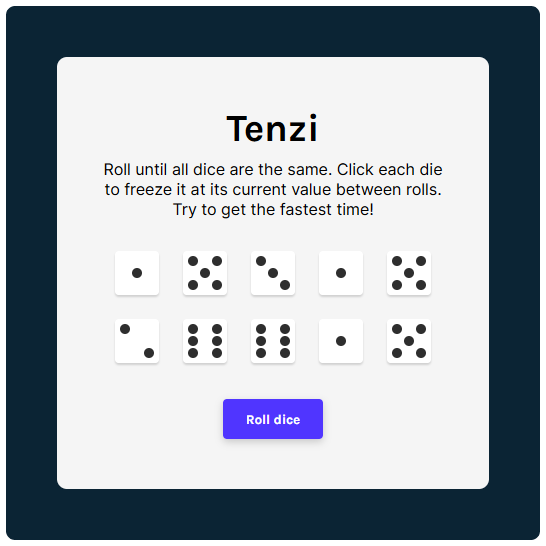
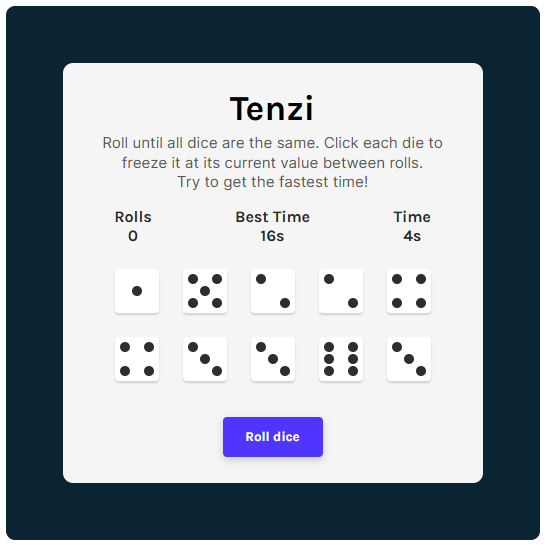
Add best time tracker with localStorage, update styling and preview

diff --git a/src/App.js b/src/App.js
@@ -8,6 +8,9 @@ export default function App() {
 	const [tenzies, setTenzies] = React.useState(false);
 	const [rollCount, setRollCount] = React.useState(0);
 	const [time, setTime] = React.useState(0);
+	const [bestTime, setBestTime] = React.useState(
+		JSON.parse(localStorage.getItem("bestTime")) || []
+	);
 
 	React.useEffect(() => {
 		const allFrozen = dice.every((die) => die.isFrozen);
@@ -32,6 +35,19 @@ export default function App() {
 		}
 	}, [tenzies]);
 
+	React.useEffect(() => {
+		const currentBestTime = localStorage.getItem("bestTime");
+		if (tenzies) {
+			if (!currentBestTime) {
+				localStorage.setItem("bestTime", JSON.stringify(time));
+			} else if (time < currentBestTime) {
+				setBestTime(
+					localStorage.setItem("bestTime", JSON.stringify(time))
+				);
+			}
+		}
+	}, [tenzies, time]);
+
 	function rollNewDice() {
 		if (!tenzies) {
 			setDice((prevDice) =>
@@ -45,6 +61,7 @@ export default function App() {
 			setRollCount(0);
 			setDice(allNewDice());
 			setTime(0);
+			setBestTime(localStorage.getItem("bestTime"));
 		}
 	}
 
@@ -78,8 +95,18 @@ export default function App() {
 				fastest time!
 			</p>
 			<div className="wrapper__stats flex-row">
-				<h3 className="counter--roll">Times Rolled: {rollCount}</h3>
-				<h3 className="timer">Elapsed Time: {time}s</h3>
+				<h3 className="counter--roll">
+					Rolls
+					<p>{rollCount}</p>
+				</h3>
+				<h3 className="bestTimer">
+					Best Time
+					<p>{bestTime}s</p>
+				</h3>
+				<h3 className="timer">
+					Time
+					<p>{time}s</p>
+				</h3>
 			</div>
 			<div className="wrapper__dice">{diceElements}</div>
 			<button className="button__dice" onClick={rollNewDice}>

diff --git a/src/style.css b/src/style.css
@@ -203,24 +203,16 @@ main {
 }
 
 /* Statistics */
-.timer, .counter--roll {
-  color:rgb(41, 41, 41);
-  width: 140px;
-  margin-bottom: 24px;
+.bestTimer, .timer, .counter--roll {
   font-family: "Karla", sans-serif;
   font-size: 1rem;
-}
-
-.timer {
-  justify-content: flex-start;
-}
-
-.counter--roll {
-  justify-content: flex-end;
+  color:rgb(41, 41, 41);
+  margin-bottom: 24px;
+  text-align: center;
 }
 
 .wrapper__stats {
   display: flex;
-  justify-content: space-between;
-  width: 350px;
+  width: 400px;
+  justify-content: space-around;
 }

diff --git a/README.md b/README.md
@@ -28,27 +28,27 @@ function rollNewDice() {
 )}
 ```
 
-#### Keeps track of time:
+#### Using localStorage to keep track of best time:
 ```javascript
 React.useEffect(() => {
-    if (!tenzies) {
-        let tick = setInterval(() => {
-            setTime((prevTime) => prevTime + 1);
-        }, 1000);
-        return () => {
-            clearInterval(tick);
-        };
-    } else {
-        setTime((prevTime) => prevTime);
+    const currentBestTime = localStorage.getItem("bestTime");
+    if (tenzies) {
+        if (!currentBestTime) {
+            localStorage.setItem("bestTime", JSON.stringify(time));
+        } else if (time < currentBestTime) {
+            setBestTime(
+                localStorage.setItem("bestTime", JSON.stringify(time))
+            );
+        }
     }
-}, [tenzies]);
+}, [tenzies, time]);
 ```
 
 ## 🚧 To Do
 - [x] Add dots instead of numbers to dice
 - [x] Track number of rolls
 - [x] Track time to win
-- [ ] Save best time in localStorage
+- [x] Save best time in localStorage
 
 Preview
 ---
